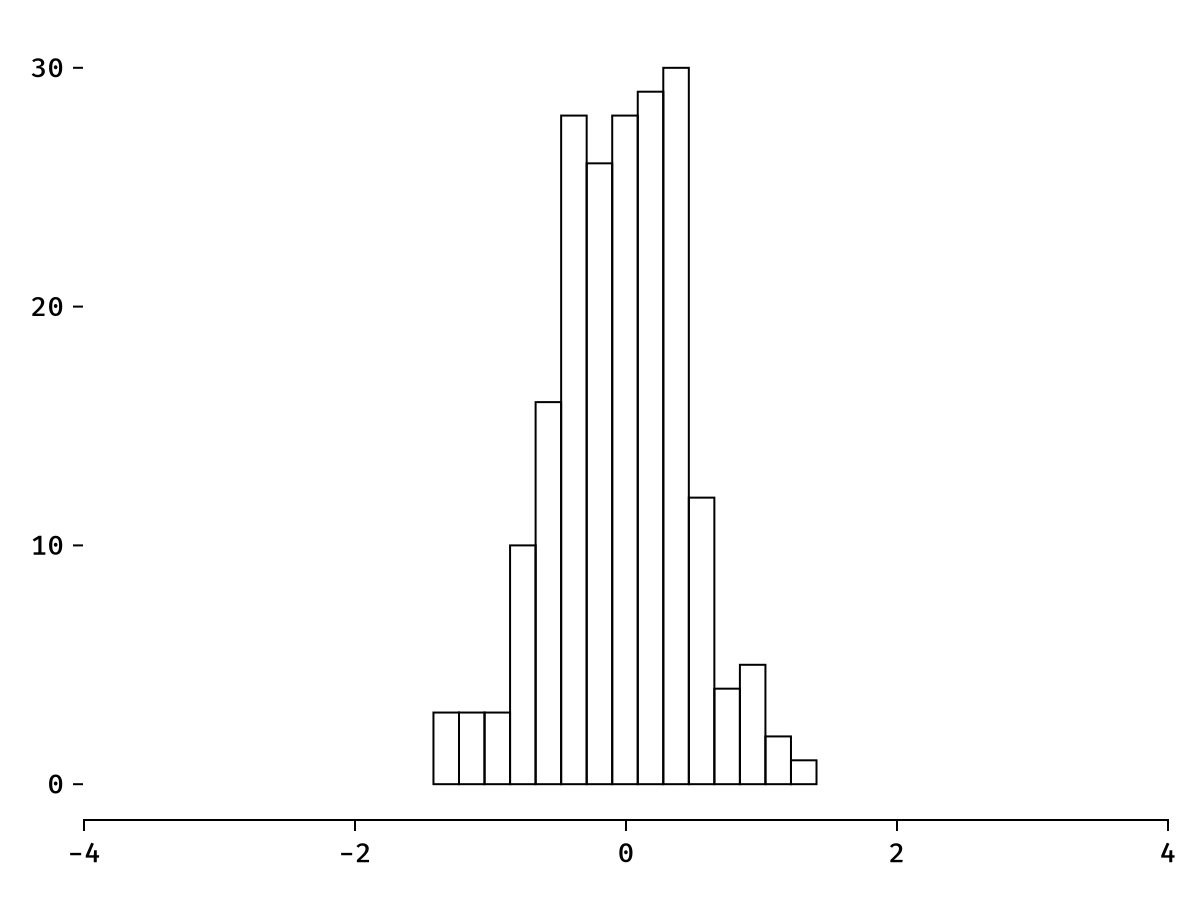
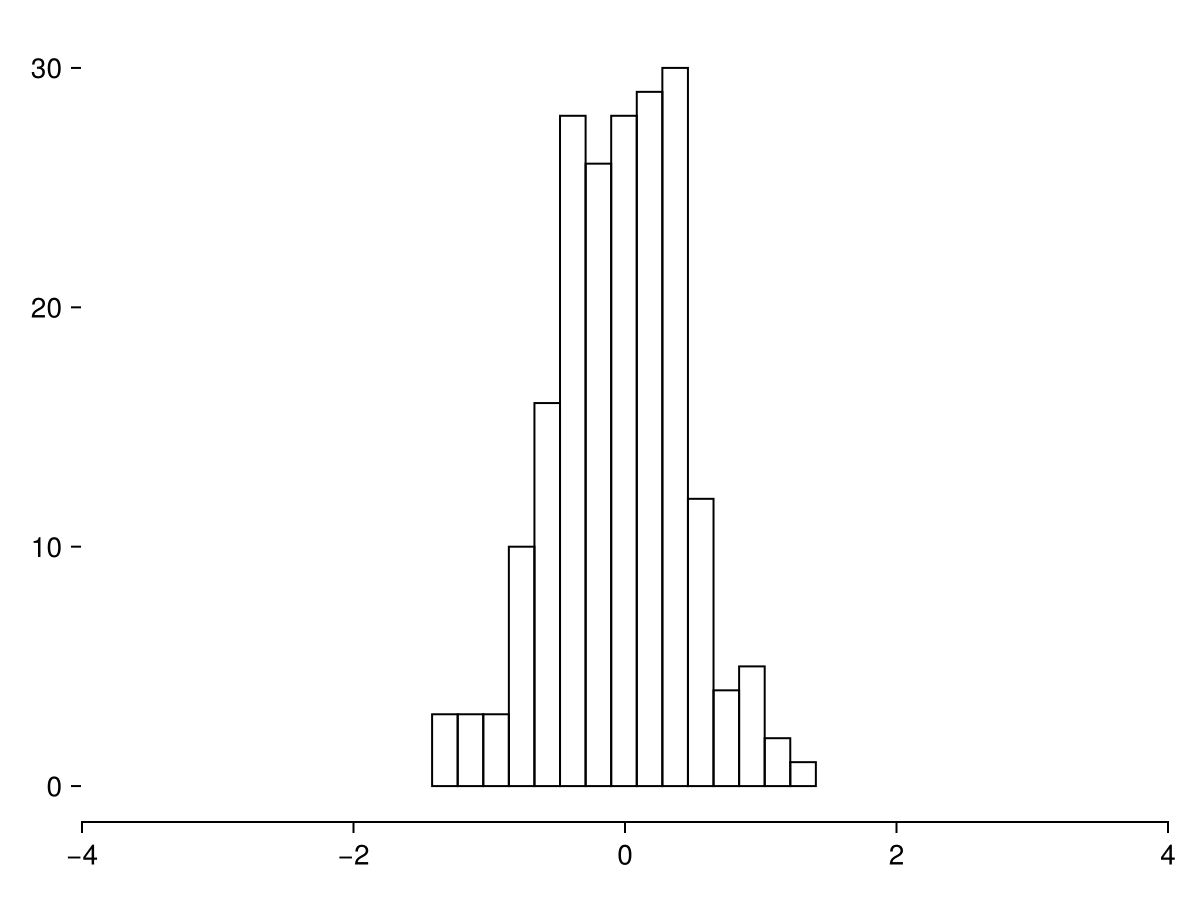
Deploying to gh-pages from  @ 052b4258a2d732648537854215cdd8599cc56e7b 🚀

diff --git a/posts/themes/index.html b/posts/themes/index.html
@@ -27,7 +27,7 @@
     <tr>
         <td scope="header" class="width-min">Updated</td>
         <td scope="header" class="width-auto">
-            <time> November 27, 2024</time>
+            <time> November 28, 2024</time>
         </td>
     </tr>
     <tr>
@@ -204,7 +204,7 @@ plot1 = ggplot(df) +
 <img src="/assets/posts/themes/code/output/themes_plot1.png" alt="">
 <p>Lets make this plot fit a little better with the monospace theme we&#39;ve got going on this site. First - the most obvious change. We need to change the font.</p>
 <pre><code class="julia hljs">randy_pub_theme = Theme(
-  fonts=(;regular=<span class="hljs-string">&quot;JetBrains Mono&quot;</span>)
+  fonts=(;regular=<span class="hljs-string">&quot;JuliaMono-Light&quot;</span>)
 )
 
 plot2 = ggplot(df) +
@@ -216,7 +216,7 @@ plot2 = ggplot(df) +
 <p>The syntax looks a little funny if you&#39;re coming from R, so it&#39;s worth a little detour to talk about which elements can be used in themes, and how to pass them in. Makie themes can contain settings for the Attributes of any object. To change the font, we want to edit the <a href="https://docs.makie.org/stable/reference/plots/text#fonts">&quot;fonts&quot; Attribute</a> of the Figure which says it needs a &quot;dictionary&quot; that ties font styles &#40;e.g. &quot;regular&quot;&#41; to fonts &#40;&quot;JetBrains Mono&quot;&#41;. I honestly don&#39;t know why it says it wants a dictionary and then demands a named tuple instead, but that&#39;s the way it works. For more info, see the explanation <a href="https://docs.makie.org/stable/explanations/fonts">here</a>.</p>
 <p>Edits to the overall figure are done directly within the Theme call, while changes to <a href="https://docs.makie.org/stable/explanations/blocks">&quot;Blocks&quot;</a> are done within a &quot;UppercaseBlockName &#61; &#40;tuple of Attributes&#41;&quot; argument to Theme. We&#39;re going to need to change a lot of options for Axis &#40;whose Attributes are listed <a href="https://docs.makie.org/stable/reference/blocks/axis#attributes">here</a> in order to make this theme look right. Lets start by getting rid of the background and all of the axis lines except the bottom.</p>
 <pre><code class="julia hljs">randy_pub_theme = Theme(
-    fonts=(;regular=<span class="hljs-string">&quot;JetBrains Mono&quot;</span>),
+    fonts=(;regular=<span class="hljs-string">&quot;JuliaMono-Light&quot;</span>),
     backgroundcolor = :transparent,
     Axis = (
             backgroundcolor = :transparent,
@@ -236,7 +236,7 @@ plot3 = ggplot(df) +
 <p>Notice that there are two different calls to &quot;background &#61; :transparent&quot;. The one inside the Axis group makes the Axis background transparent, and the one at the base level makes the figure&#39;s background transparent.</p>
 <p>Now we need to align the figure with the monospace grid.</p>
 <pre><code class="julia hljs">randy_pub_theme = Theme(
-    fonts=(;regular=<span class="hljs-string">&quot;JetBrains Mono&quot;</span>),
+    fonts=(;regular=<span class="hljs-string">&quot;JuliaMono-Light&quot;</span>),
     backgroundcolor = :transparent,
     Axis = (
             backgroundcolor = :transparent,
@@ -259,7 +259,7 @@ plot3a = ggplot(df) +
 <img src="/assets/posts/themes/code/output/themes_plot3a.png" alt="">
 <p>We need to tweak the colors now for dark mode:</p>
 <pre><code class="julia hljs">randy_pub_theme_dark = Theme(
-    fonts=(;regular=<span class="hljs-string">&quot;JetBrains Mono&quot;</span>),
+    fonts=(;regular=<span class="hljs-string">&quot;JuliaMono-Light&quot;</span>),
     backgroundcolor = :transparent,
     Axis = (
             backgroundcolor = :transparent,

diff --git a/css/basic.css b/css/basic.css
@@ -1,7 +1,10 @@
-@import url("https://fonts.cdnfonts.com/css/jetbrains-mono-2");
+@font-face {
+    font-family: JuliaMono-Light;
+    src: url("https://cdn.jsdelivr.net/gh/cormullion/juliamono/webfonts/JuliaMono-Light.woff2");
+}
 
 :root {
-    --font-family: "JetBrains Mono", monospace;
+    --font-family: "JuliaMono-Light", monospace;
     --line-height: 1.2rem;
     --border-thickness: 2px;
     --text-color: #000;
@@ -18,7 +21,7 @@
     font-weight: var(--font-weight-normal);
     font-style: normal;
     font-variant-numeric: tabular-nums lining-nums;
-    font-size: 16px;
+    font-size: 1.2em;
 }
 
 @media (prefers-color-scheme: dark) {

diff --git a/404.html b/404.html
@@ -25,7 +25,7 @@
     <tr>
         <td scope="header" class="width-min">Updated</td>
         <td scope="header" class="width-auto">
-            <time> November 27, 2024</time>
+            <time> November 28, 2024</time>
         </td>
     </tr>
     <tr>

diff --git a/index.html b/index.html
@@ -25,7 +25,7 @@
     <tr>
         <td scope="header" class="width-min">Updated</td>
         <td scope="header" class="width-auto">
-            <time> November 27, 2024</time>
+            <time> November 28, 2024</time>
         </td>
     </tr>
     <tr>

diff --git a/posts/blueskycomments/index.html b/posts/blueskycomments/index.html
@@ -27,7 +27,7 @@
     <tr>
         <td scope="header" class="width-min">Updated</td>
         <td scope="header" class="width-auto">
-            <time> November 27, 2024</time>
+            <time> November 28, 2024</time>
         </td>
     </tr>
     <tr>

diff --git a/posts/index.html b/posts/index.html
@@ -25,7 +25,7 @@
     <tr>
         <td scope="header" class="width-min">Updated</td>
         <td scope="header" class="width-auto">
-            <time> November 27, 2024</time>
+            <time> November 28, 2024</time>
         </td>
     </tr>
     <tr>

diff --git a/posts/tidierplots1/index.html b/posts/tidierplots1/index.html
@@ -27,7 +27,7 @@
     <tr>
         <td scope="header" class="width-min">Updated</td>
         <td scope="header" class="width-auto">
-            <time> November 27, 2024</time>
+            <time> November 28, 2024</time>
         </td>
     </tr>
     <tr>

diff --git a/posts_inprog/correlation/index.html b/posts_inprog/correlation/index.html
@@ -27,7 +27,7 @@
     <tr>
         <td scope="header" class="width-min">Updated</td>
         <td scope="header" class="width-auto">
-            <time> November 27, 2024</time>
+            <time> November 28, 2024</time>
         </td>
     </tr>
     <tr>

diff --git a/posts_inprog/tidierplots2/index.html b/posts_inprog/tidierplots2/index.html
@@ -27,7 +27,7 @@
     <tr>
         <td scope="header" class="width-min">Updated</td>
         <td scope="header" class="width-auto">
-            <time> November 27, 2024</time>
+            <time> November 28, 2024</time>
         </td>
     </tr>
     <tr>

diff --git a/pubs/index.html b/pubs/index.html
@@ -27,7 +27,7 @@
     <tr>
         <td scope="header" class="width-min">Updated</td>
         <td scope="header" class="width-auto">
-            <time> November 27, 2024</time>
+            <time> November 28, 2024</time>
         </td>
     </tr>
     <tr>

diff --git a/resume/index.html b/resume/index.html
@@ -27,7 +27,7 @@
     <tr>
         <td scope="header" class="width-min">Updated</td>
         <td scope="header" class="width-auto">
-            <time> November 27, 2024</time>
+            <time> November 28, 2024</time>
         </td>
     </tr>
     <tr>

diff --git a/tag/bluesky/index.html b/tag/bluesky/index.html
@@ -20,7 +20,7 @@
     <tr>
         <td scope="header" class="width-min">Updated</td>
         <td scope="header" class="width-auto">
-            <time> November 27, 2024</time>
+            <time> November 28, 2024</time>
         </td>
     </tr>
     <tr>
